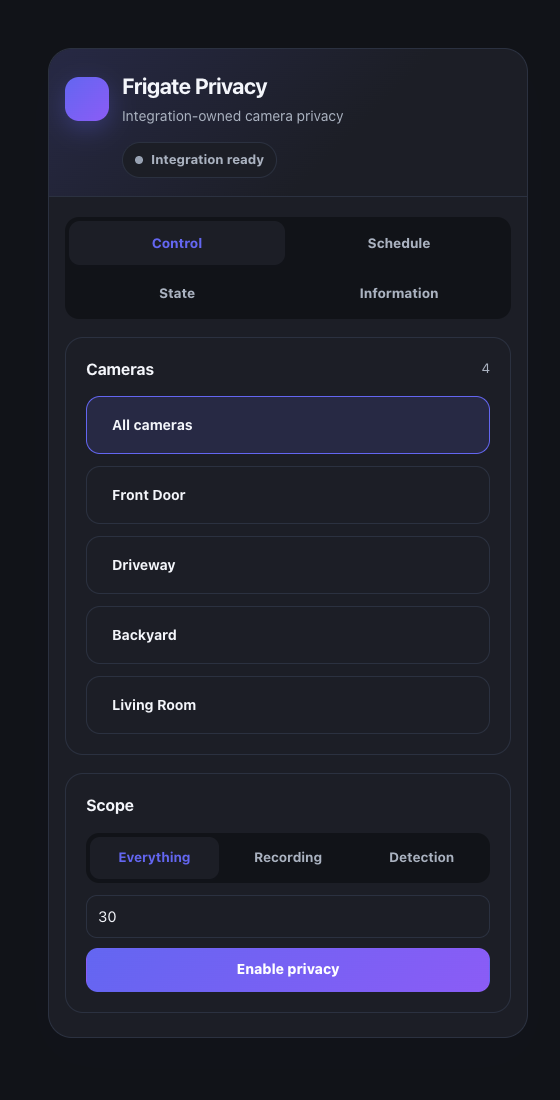
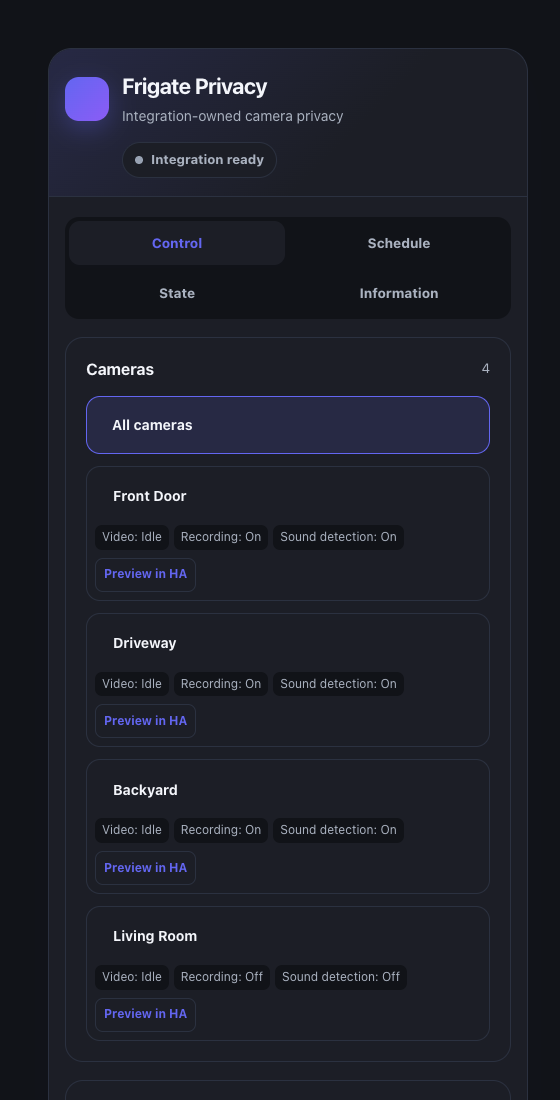
Fix unsupported Frigate camera toggle and show channel status

diff --git a/custom_components/ha_frigate_privacy/www/ha-frigate-privacy-card.js b/custom_components/ha_frigate_privacy/www/ha-frigate-privacy-card.js
@@ -1,4 +1,4 @@
-/* Frigate Privacy — integration-owned Home Assistant card */
+/* Frigate Privacy v6.0.3 — integration-owned Home Assistant card */
 (function () {
   'use strict';
 
@@ -54,6 +54,9 @@
     .camera-card { display: flex; align-items: center; gap: 11px; min-height: 58px; padding: 14px; border: 1px solid var(--fp-border); border-radius: 14px; background: var(--fp-card); cursor: pointer; transition: border-color .18s, background .18s, transform .18s; }
     .camera-card:hover { transform: translateY(-1px); border-color: color-mix(in srgb, var(--fp-primary) 45%, var(--fp-border)); } .camera-card.selected { border-color: var(--fp-primary); background: var(--fp-soft); }
     .camera-card ha-icon { flex: 0 0 auto; color: var(--fp-primary); --mdc-icon-size: 22px; } .camera-name { min-width: 0; overflow-wrap: break-word; font-size: 14px; line-height: 1.4; font-weight: 700; } .camera-check { margin-left: auto; color: var(--fp-primary); }
+    .camera-tile { min-width: 0; padding: 8px; border: 1px solid var(--fp-border); border-radius: 14px; } .camera-tile .camera-card { border: 0; padding: 7px; min-height: 42px; }
+    .channel-status { display: flex; flex-wrap: wrap; gap: 5px; margin: 8px 0; } .channel-status span { padding: 3px 7px; border-radius: 7px; background: var(--fp-bg); color: var(--fp-muted); font-size: 12px; }
+    .preview-btn { min-height: 34px; padding: 5px 8px; border: 1px solid var(--fp-border); border-radius: 8px; background: var(--fp-card); color: var(--fp-primary); cursor: pointer; font-size: 12px; font-weight: 700; }
     .seg { display: flex; gap: 5px; padding: 4px; border-radius: 13px; background: var(--fp-bg); }
     .seg-item { flex: 1; min-height: 42px; padding: 8px 10px; border: 0; border-radius: 10px; background: transparent; color: var(--fp-muted); cursor: pointer; font-size: 13.5px; line-height: 1.35; font-weight: 700; }
     .seg-item.selected { background: var(--fp-card); color: var(--fp-primary); box-shadow: 0 2px 8px rgba(16,24,40,.08); }
@@ -98,8 +101,8 @@
 
     get _t() {
       const strings = {
-        pl: { subtitle:'Prywatność kamer sterowana przez integrację',online:'Integracja gotowa',connecting:'Łączenie',recovering:'Bezpieczne odzyskiwanie stanu',recoveringHint:'Integracja czeka na encje Frigate i zachowuje zapisane cele. Sterowanie pozostaje zablokowane do zakończenia uzgadniania.',adminRequired:'Wymagane uprawnienia administratora',adminHint:'Stan kamer i harmonogramy mogą ujawniać rytm domu. Ta karta jest dostępna wyłącznie dla administratorów Home Assistant.',unavailable:'Integracja Frigate Privacy jest niedostępna',unavailableHint:'Dodaj lub napraw integrację, a następnie odśwież kartę. Żadne sterowanie awaryjne w przeglądarce nie zostanie uruchomione.',retry:'Spróbuj ponownie',retryResume:'Ponów bezpieczne wznowienie',introTitle:'Bezpieczny tryb prywatności',intro1:'Wybierz kamery, zakres i czas.',intro2:'Integracja zapisze stan przed zmianą.',intro3:'Częściowe lub niepewne wykonanie pozostanie widoczne.',control:'Sterowanie',schedule:'Harmonogram',state:'Stan',info:'Informacje',cameras:'Kamery',all:'Wszystkie kamery',scope:'Zakres',allScope:'Wszystko',main:'Nagrywanie',sub:'Detekcja',duration:'Czas w minutach',pause:'Włącz prywatność',resume:'Wznów bezpiecznie',noCameras:'Nie znaleziono kamer Frigate.',schedules:'Okna prywatności',noSchedules:'Brak harmonogramów.',add:'Dodaj harmonogram',edit:'Edytuj',save:'Zapisz',cancel:'Anuluj',remove:'Usuń',label:'Etykieta',start:'Początek',end:'Koniec',enabled:'Aktywny',days:['Pn','Wt','Śr','Cz','Pt','So','Nd'],currentState:'Stan potwierdzony przez backend',noActive:'Brak aktywnych przejść prywatności.',lastVerified:'Ostatnia zweryfikowana operacja',noHistory:'Brak zakończonych operacji.',source:'Źródło',deadline:'Termin',reason:'Powód',operation:'Operacja',observed:'Zweryfikowano',attempts:'Próby wznowienia',evidence:'Dowody per cel',architecture:'Model bezpieczeństwa',architectureText:'Karta nie steruje kamerami, przełącznikami ani konfiguracją HA bezpośrednio. Wszystkie odczyty i zmiany przechodzą przez administracyjne komendy WebSocket integracji. Harmonogram i odzyskiwanie po restarcie są własnością backendu.',support:'Podoba Ci się Frigate Privacy?',supportText:'Możesz wesprzeć dalszy rozwój i testy.',saved:'Zapisano',failed:'Operacja nie powiodła się',close:'Zamknij' },
-        en: { subtitle:'Integration-owned camera privacy',online:'Integration ready',connecting:'Connecting',recovering:'Safely recovering state',recoveringHint:'The integration is waiting for Frigate entities while preserving exact saved targets. Controls remain locked until reconciliation finishes.',adminRequired:'Administrator permission required',adminHint:'Camera topology and schedules can reveal household routines. This card is available only to Home Assistant administrators.',unavailable:'Frigate Privacy integration is unavailable',unavailableHint:'Add or repair the integration, then refresh the card. No browser-side emergency control will run.',retry:'Retry',retryResume:'Retry safe resume',introTitle:'Safe privacy control',intro1:'Choose cameras, scope, and duration.',intro2:'The integration persists state before control.',intro3:'Partial or uncertain results remain visible.',control:'Control',schedule:'Schedule',state:'State',info:'Information',cameras:'Cameras',all:'All cameras',scope:'Scope',allScope:'Everything',main:'Recording',sub:'Detection',duration:'Duration in minutes',pause:'Enable privacy',resume:'Resume safely',noCameras:'No Frigate cameras were found.',schedules:'Privacy windows',noSchedules:'No schedules.',add:'Add schedule',edit:'Edit',save:'Save',cancel:'Cancel',remove:'Delete',label:'Label',start:'Start',end:'End',enabled:'Enabled',days:['Mon','Tue','Wed','Thu','Fri','Sat','Sun'],currentState:'Backend-confirmed state',noActive:'No active privacy transitions.',lastVerified:'Last verified operation',noHistory:'No completed operations.',source:'Source',deadline:'Deadline',reason:'Reason',operation:'Operation',observed:'Verified',attempts:'Resume attempts',evidence:'Per-target evidence',architecture:'Security model',architectureText:'The card never controls cameras, switches, or HA configuration directly. Every read and mutation goes through admin-only integration WebSocket commands. The backend owns schedules and restart recovery.',support:'Enjoying Frigate Privacy?',supportText:'You can support continued development and testing.',saved:'Saved',failed:'The operation failed',close:'Close' },
+        pl: { subtitle:'Prywatność kamer sterowana przez integrację',online:'Integracja gotowa',connecting:'Łączenie',recovering:'Bezpieczne odzyskiwanie stanu',recoveringHint:'Integracja czeka na encje Frigate i zachowuje zapisane cele. Sterowanie pozostaje zablokowane do zakończenia uzgadniania.',adminRequired:'Wymagane uprawnienia administratora',adminHint:'Stan kamer i harmonogramy mogą ujawniać rytm domu. Ta karta jest dostępna wyłącznie dla administratorów Home Assistant.',unavailable:'Integracja Frigate Privacy jest niedostępna',unavailableHint:'Dodaj lub napraw integrację, a następnie odśwież kartę. Żadne sterowanie awaryjne w przeglądarce nie zostanie uruchomione.',retry:'Spróbuj ponownie',retryResume:'Ponów bezpieczne wznowienie',introTitle:'Bezpieczny tryb prywatności',intro1:'Wybierz kamery, zakres i czas.',intro2:'Integracja zapisze stan przed zmianą.',intro3:'Częściowe lub niepewne wykonanie pozostanie widoczne.',control:'Sterowanie',schedule:'Harmonogram',state:'Stan',info:'Informacje',cameras:'Kamery',all:'Wszystkie kamery',scope:'Zakres',allScope:'Wszystko',main:'Nagrywanie',sub:'Detekcja',duration:'Czas w minutach',pause:'Włącz prywatność',resume:'Wznów bezpiecznie',noCameras:'Nie znaleziono kamer Frigate.',schedules:'Okna prywatności',noSchedules:'Brak harmonogramów.',add:'Dodaj harmonogram',edit:'Edytuj',save:'Zapisz',cancel:'Anuluj',remove:'Usuń',label:'Etykieta',start:'Początek',end:'Koniec',enabled:'Aktywny',days:['Pn','Wt','Śr','Cz','Pt','So','Nd'],currentState:'Stan potwierdzony przez backend',noActive:'Brak aktywnych przejść prywatności.',lastVerified:'Ostatnia zweryfikowana operacja',noHistory:'Brak zakończonych operacji.',source:'Źródło',deadline:'Termin',reason:'Powód',operation:'Operacja',observed:'Zweryfikowano',attempts:'Próby wznowienia',evidence:'Dowody per cel',architecture:'Model bezpieczeństwa',architectureText:'Karta nie steruje kamerami, przełącznikami ani konfiguracją HA bezpośrednio. Wszystkie odczyty i zmiany przechodzą przez administracyjne komendy WebSocket integracji. Harmonogram i odzyskiwanie po restarcie są własnością backendu.',support:'Podoba Ci się Frigate Privacy?',supportText:'Możesz wesprzeć dalszy rozwój i testy.',saved:'Zapisano',failed:'Operacja nie powiodła się',close:'Zamknij',video:'Obraz',recording:'Nagrywanie',soundDetection:'Detekcja dźwięku',preview:'Podgląd w HA',statusOn:'Wł.',statusOff:'Wył.',statusIdle:'Gotowa',statusUnavailable:'Niedostępna',statusUnknown:'Nieznany' },
+        en: { subtitle:'Integration-owned camera privacy',online:'Integration ready',connecting:'Connecting',recovering:'Safely recovering state',recoveringHint:'The integration is waiting for Frigate entities while preserving exact saved targets. Controls remain locked until reconciliation finishes.',adminRequired:'Administrator permission required',adminHint:'Camera topology and schedules can reveal household routines. This card is available only to Home Assistant administrators.',unavailable:'Frigate Privacy integration is unavailable',unavailableHint:'Add or repair the integration, then refresh the card. No browser-side emergency control will run.',retry:'Retry',retryResume:'Retry safe resume',introTitle:'Safe privacy control',intro1:'Choose cameras, scope, and duration.',intro2:'The integration persists state before control.',intro3:'Partial or uncertain results remain visible.',control:'Control',schedule:'Schedule',state:'State',info:'Information',cameras:'Cameras',all:'All cameras',scope:'Scope',allScope:'Everything',main:'Recording',sub:'Detection',duration:'Duration in minutes',pause:'Enable privacy',resume:'Resume safely',noCameras:'No Frigate cameras were found.',schedules:'Privacy windows',noSchedules:'No schedules.',add:'Add schedule',edit:'Edit',save:'Save',cancel:'Cancel',remove:'Delete',label:'Label',start:'Start',end:'End',enabled:'Enabled',days:['Mon','Tue','Wed','Thu','Fri','Sat','Sun'],currentState:'Backend-confirmed state',noActive:'No active privacy transitions.',lastVerified:'Last verified operation',noHistory:'No completed operations.',source:'Source',deadline:'Deadline',reason:'Reason',operation:'Operation',observed:'Verified',attempts:'Resume attempts',evidence:'Per-target evidence',architecture:'Security model',architectureText:'The card never controls cameras, switches, or HA configuration directly. Every read and mutation goes through admin-only integration WebSocket commands. The backend owns schedules and restart recovery.',support:'Enjoying Frigate Privacy?',supportText:'You can support continued development and testing.',saved:'Saved',failed:'The operation failed',close:'Close',video:'Video',recording:'Recording',soundDetection:'Sound detection',preview:'Preview in HA',statusOn:'On',statusOff:'Off',statusIdle:'Idle',statusUnavailable:'Unavailable',statusUnknown:'Unknown' },
       }; return strings[this._lang] || strings.en;
     }
 
@@ -162,7 +165,9 @@
     _dismissSupport() { haToolsPersistence.save("ha-frigate-privacy-support-dismissed", "1"); this._lastHtml = ""; this._updateUI(); }
     _buildGate() { const t=this._t; if(!this._integrationChecked)return `<div class="notice"><ha-icon icon="mdi:progress-clock"></ha-icon><div><h3>${_esc(t.connecting)}</h3><p>${_esc(t.subtitle)}</p></div></div>`; if(this._permissionDenied)return `<div class="notice error"><ha-icon icon="mdi:account-lock-outline"></ha-icon><div><h3>${_esc(t.adminRequired)}</h3><p>${_esc(t.adminHint)}</p></div></div>`; if(!this._integrationAvailable)return `<div class="notice error"><ha-icon icon="mdi:lan-disconnect"></ha-icon><div><h3>${_esc(t.unavailable)}</h3><p>${_esc(t.unavailableHint)}</p><button class="btn btn-secondary" data-action="retry" style="margin-top:12px">${_esc(t.retry)}</button></div></div>`; if(!this._recoveryReady)return `<div class="notice"><ha-icon icon="mdi:shield-sync-outline"></ha-icon><div><h3>${_esc(t.recovering)}</h3><p>${_esc(t.recoveringHint)}</p></div></div>`; return ''; }
     _buildControlTab() {
-      const t=this._t; const cameras=this._cameras.map((cam)=>{const selected=this._selectedCameras.has(cam.camera_id);return `<div class="camera-card ${selected?'selected':''}" data-camera="${_esc(cam.camera_id)}" role="button" tabindex="0" aria-pressed="${selected}" aria-label="Camera: ${_esc(this._repairMojibake(cam.name))}"><ha-icon icon="mdi:cctv"></ha-icon><span class="camera-name">${_esc(this._repairMojibake(cam.name))}</span>${selected?'<ha-icon class="camera-check" icon="mdi:check-circle"></ha-icon>':''}</div>`;}).join('');
+      const t=this._t; const status=(value)=>({on:t.statusOn,off:t.statusOff,idle:t.statusIdle,streaming:t.statusOn,recording:t.statusOn,unavailable:t.statusUnavailable,unknown:t.statusUnknown}[value]||t.statusUnknown);
+      const switchStatus=(cam,suffixes)=>{const item=(cam.switches||[]).find((entry)=>suffixes.includes(entry.suffix));return status(item?.state);};
+      const cameras=this._cameras.map((cam)=>{const selected=this._selectedCameras.has(cam.camera_id);const video=status(cam.camera_state);const recording=switchStatus(cam,['_recordings']);const sound=switchStatus(cam,['_audio_detection','_audio']);return `<div class="camera-tile"><div class="camera-card ${selected?'selected':''}" data-camera="${_esc(cam.camera_id)}" role="button" tabindex="0" aria-pressed="${selected}" aria-label="Camera: ${_esc(this._repairMojibake(cam.name))}"><ha-icon icon="mdi:cctv"></ha-icon><span class="camera-name">${_esc(this._repairMojibake(cam.name))}</span>${selected?'<ha-icon class="camera-check" icon="mdi:check-circle"></ha-icon>':''}</div><div class="channel-status"><span>${_esc(t.video)}: ${_esc(video)}</span><span>${_esc(t.recording)}: ${_esc(recording)}</span><span>${_esc(t.soundDetection)}: ${_esc(sound)}</span></div>${cam.entity_id?`<button class="preview-btn" data-preview-camera="${_esc(cam.entity_id)}">${_esc(t.preview)}</button>`:''}</div>`;}).join('');
       const allSelected=this._selectedCameras.size===0; const phases=Object.values(this._paused||{});
       return `<div class="section"><div class="section-head"><h3>${_esc(t.cameras)}</h3><span class="helper">${this._cameras.length}</span></div><div class="camera-grid"><div class="camera-card ${allSelected?'selected':''}" data-camera="__all__" role="button" tabindex="0" aria-pressed="${allSelected}"><ha-icon icon="mdi:camera-multiple-outline"></ha-icon><span class="camera-name">${_esc(t.all)}</span>${allSelected?'<ha-icon class="camera-check" icon="mdi:check-circle"></ha-icon>':''}</div>${cameras||`<div class="empty">${_esc(t.noCameras)}</div>`}</div></div>
       <div class="section"><div class="section-head"><h3>${_esc(t.scope)}</h3></div><div class="seg" role="radiogroup">${[['all',t.allScope],['main',t.main],['sub',t.sub]].map(([value,label])=>`<button class="seg-item ${this._pauseStreamType===value?'selected':''}" data-scope="${value}" role="radio" aria-checked="${this._pauseStreamType===value}">${_esc(label)}</button>`).join('')}</div><div class="duration-row"><input class="input-minutes" type="number" min="1" max="1440" value="${_esc(this._customMinutes)}" aria-label="${_esc(t.duration)}"><button class="btn btn-primary" data-action="pause-custom" ${this._busy||!this._cameras.length?'disabled':''}>${_esc(t.pause)}</button></div>${phases.length?`<button class="btn btn-danger btn-full" data-action="resume" ${this._busy?'disabled':''}>${_esc(t.resume)}</button>`:''}</div>`;
@@ -179,6 +184,7 @@
       const root=this.shadowRoot;root.querySelector('[data-action="dismiss-intro"]')?.addEventListener('click',()=>this._dismissIntro());root.querySelector('[data-action="dismiss-support"]')?.addEventListener('click',()=>this._dismissSupport());root.querySelector('[data-action="retry"]')?.addEventListener('click',()=>this._connectIntegration());
       root.querySelectorAll('[data-tab]').forEach((button)=>button.addEventListener('click',()=>{this._activeTab=button.dataset.tab;this._updateUI();}));
       root.querySelectorAll('[data-camera]').forEach((card)=>{const toggle=()=>{const id=card.dataset.camera;if(id==='__all__')this._selectedCameras.clear();else if(this._selectedCameras.has(id))this._selectedCameras.delete(id);else this._selectedCameras.add(id);this._updateUI();};card.addEventListener('click',toggle);card.addEventListener('keydown',(event)=>{if(event.key==='Enter'||event.key===' '){event.preventDefault();toggle();}});});
+      root.querySelectorAll('[data-preview-camera]').forEach((button)=>button.addEventListener('click',()=>this.dispatchEvent(new CustomEvent('hass-more-info',{detail:{entityId:button.dataset.previewCamera},bubbles:true,composed:true}))));
       root.querySelectorAll('[data-scope]').forEach((button)=>button.addEventListener('click',()=>{this._pauseStreamType=button.dataset.scope;haToolsPersistence.save('ha-frigate-privacy-pause-stream-type',this._pauseStreamType);this._updateUI();}));
       root.querySelector('.input-minutes')?.addEventListener('change',(event)=>{this._customMinutes=Math.max(1,Math.min(1440,Number.parseInt(event.target.value,10)||30));this._updateUI();});
       root.querySelector('[data-action="pause-custom"]')?.addEventListener('click',()=>this._pause());root.querySelector('[data-action="resume"]')?.addEventListener('click',()=>this._resume());

diff --git a/ha-frigate-privacy.js b/ha-frigate-privacy.js
@@ -1,4 +1,4 @@
-/* Frigate Privacy — integration-owned Home Assistant card */
+/* Frigate Privacy v6.0.3 — integration-owned Home Assistant card */
 (function () {
   'use strict';
 
@@ -54,6 +54,9 @@
     .camera-card { display: flex; align-items: center; gap: 11px; min-height: 58px; padding: 14px; border: 1px solid var(--fp-border); border-radius: 14px; background: var(--fp-card); cursor: pointer; transition: border-color .18s, background .18s, transform .18s; }
     .camera-card:hover { transform: translateY(-1px); border-color: color-mix(in srgb, var(--fp-primary) 45%, var(--fp-border)); } .camera-card.selected { border-color: var(--fp-primary); background: var(--fp-soft); }
     .camera-card ha-icon { flex: 0 0 auto; color: var(--fp-primary); --mdc-icon-size: 22px; } .camera-name { min-width: 0; overflow-wrap: break-word; font-size: 14px; line-height: 1.4; font-weight: 700; } .camera-check { margin-left: auto; color: var(--fp-primary); }
+    .camera-tile { min-width: 0; padding: 8px; border: 1px solid var(--fp-border); border-radius: 14px; } .camera-tile .camera-card { border: 0; padding: 7px; min-height: 42px; }
+    .channel-status { display: flex; flex-wrap: wrap; gap: 5px; margin: 8px 0; } .channel-status span { padding: 3px 7px; border-radius: 7px; background: var(--fp-bg); color: var(--fp-muted); font-size: 12px; }
+    .preview-btn { min-height: 34px; padding: 5px 8px; border: 1px solid var(--fp-border); border-radius: 8px; background: var(--fp-card); color: var(--fp-primary); cursor: pointer; font-size: 12px; font-weight: 700; }
     .seg { display: flex; gap: 5px; padding: 4px; border-radius: 13px; background: var(--fp-bg); }
     .seg-item { flex: 1; min-height: 42px; padding: 8px 10px; border: 0; border-radius: 10px; background: transparent; color: var(--fp-muted); cursor: pointer; font-size: 13.5px; line-height: 1.35; font-weight: 700; }
     .seg-item.selected { background: var(--fp-card); color: var(--fp-primary); box-shadow: 0 2px 8px rgba(16,24,40,.08); }
@@ -98,8 +101,8 @@
 
     get _t() {
       const strings = {
-        pl: { subtitle:'Prywatność kamer sterowana przez integrację',online:'Integracja gotowa',connecting:'Łączenie',recovering:'Bezpieczne odzyskiwanie stanu',recoveringHint:'Integracja czeka na encje Frigate i zachowuje zapisane cele. Sterowanie pozostaje zablokowane do zakończenia uzgadniania.',adminRequired:'Wymagane uprawnienia administratora',adminHint:'Stan kamer i harmonogramy mogą ujawniać rytm domu. Ta karta jest dostępna wyłącznie dla administratorów Home Assistant.',unavailable:'Integracja Frigate Privacy jest niedostępna',unavailableHint:'Dodaj lub napraw integrację, a następnie odśwież kartę. Żadne sterowanie awaryjne w przeglądarce nie zostanie uruchomione.',retry:'Spróbuj ponownie',retryResume:'Ponów bezpieczne wznowienie',introTitle:'Bezpieczny tryb prywatności',intro1:'Wybierz kamery, zakres i czas.',intro2:'Integracja zapisze stan przed zmianą.',intro3:'Częściowe lub niepewne wykonanie pozostanie widoczne.',control:'Sterowanie',schedule:'Harmonogram',state:'Stan',info:'Informacje',cameras:'Kamery',all:'Wszystkie kamery',scope:'Zakres',allScope:'Wszystko',main:'Nagrywanie',sub:'Detekcja',duration:'Czas w minutach',pause:'Włącz prywatność',resume:'Wznów bezpiecznie',noCameras:'Nie znaleziono kamer Frigate.',schedules:'Okna prywatności',noSchedules:'Brak harmonogramów.',add:'Dodaj harmonogram',edit:'Edytuj',save:'Zapisz',cancel:'Anuluj',remove:'Usuń',label:'Etykieta',start:'Początek',end:'Koniec',enabled:'Aktywny',days:['Pn','Wt','Śr','Cz','Pt','So','Nd'],currentState:'Stan potwierdzony przez backend',noActive:'Brak aktywnych przejść prywatności.',lastVerified:'Ostatnia zweryfikowana operacja',noHistory:'Brak zakończonych operacji.',source:'Źródło',deadline:'Termin',reason:'Powód',operation:'Operacja',observed:'Zweryfikowano',attempts:'Próby wznowienia',evidence:'Dowody per cel',architecture:'Model bezpieczeństwa',architectureText:'Karta nie steruje kamerami, przełącznikami ani konfiguracją HA bezpośrednio. Wszystkie odczyty i zmiany przechodzą przez administracyjne komendy WebSocket integracji. Harmonogram i odzyskiwanie po restarcie są własnością backendu.',support:'Podoba Ci się Frigate Privacy?',supportText:'Możesz wesprzeć dalszy rozwój i testy.',saved:'Zapisano',failed:'Operacja nie powiodła się',close:'Zamknij' },
-        en: { subtitle:'Integration-owned camera privacy',online:'Integration ready',connecting:'Connecting',recovering:'Safely recovering state',recoveringHint:'The integration is waiting for Frigate entities while preserving exact saved targets. Controls remain locked until reconciliation finishes.',adminRequired:'Administrator permission required',adminHint:'Camera topology and schedules can reveal household routines. This card is available only to Home Assistant administrators.',unavailable:'Frigate Privacy integration is unavailable',unavailableHint:'Add or repair the integration, then refresh the card. No browser-side emergency control will run.',retry:'Retry',retryResume:'Retry safe resume',introTitle:'Safe privacy control',intro1:'Choose cameras, scope, and duration.',intro2:'The integration persists state before control.',intro3:'Partial or uncertain results remain visible.',control:'Control',schedule:'Schedule',state:'State',info:'Information',cameras:'Cameras',all:'All cameras',scope:'Scope',allScope:'Everything',main:'Recording',sub:'Detection',duration:'Duration in minutes',pause:'Enable privacy',resume:'Resume safely',noCameras:'No Frigate cameras were found.',schedules:'Privacy windows',noSchedules:'No schedules.',add:'Add schedule',edit:'Edit',save:'Save',cancel:'Cancel',remove:'Delete',label:'Label',start:'Start',end:'End',enabled:'Enabled',days:['Mon','Tue','Wed','Thu','Fri','Sat','Sun'],currentState:'Backend-confirmed state',noActive:'No active privacy transitions.',lastVerified:'Last verified operation',noHistory:'No completed operations.',source:'Source',deadline:'Deadline',reason:'Reason',operation:'Operation',observed:'Verified',attempts:'Resume attempts',evidence:'Per-target evidence',architecture:'Security model',architectureText:'The card never controls cameras, switches, or HA configuration directly. Every read and mutation goes through admin-only integration WebSocket commands. The backend owns schedules and restart recovery.',support:'Enjoying Frigate Privacy?',supportText:'You can support continued development and testing.',saved:'Saved',failed:'The operation failed',close:'Close' },
+        pl: { subtitle:'Prywatność kamer sterowana przez integrację',online:'Integracja gotowa',connecting:'Łączenie',recovering:'Bezpieczne odzyskiwanie stanu',recoveringHint:'Integracja czeka na encje Frigate i zachowuje zapisane cele. Sterowanie pozostaje zablokowane do zakończenia uzgadniania.',adminRequired:'Wymagane uprawnienia administratora',adminHint:'Stan kamer i harmonogramy mogą ujawniać rytm domu. Ta karta jest dostępna wyłącznie dla administratorów Home Assistant.',unavailable:'Integracja Frigate Privacy jest niedostępna',unavailableHint:'Dodaj lub napraw integrację, a następnie odśwież kartę. Żadne sterowanie awaryjne w przeglądarce nie zostanie uruchomione.',retry:'Spróbuj ponownie',retryResume:'Ponów bezpieczne wznowienie',introTitle:'Bezpieczny tryb prywatności',intro1:'Wybierz kamery, zakres i czas.',intro2:'Integracja zapisze stan przed zmianą.',intro3:'Częściowe lub niepewne wykonanie pozostanie widoczne.',control:'Sterowanie',schedule:'Harmonogram',state:'Stan',info:'Informacje',cameras:'Kamery',all:'Wszystkie kamery',scope:'Zakres',allScope:'Wszystko',main:'Nagrywanie',sub:'Detekcja',duration:'Czas w minutach',pause:'Włącz prywatność',resume:'Wznów bezpiecznie',noCameras:'Nie znaleziono kamer Frigate.',schedules:'Okna prywatności',noSchedules:'Brak harmonogramów.',add:'Dodaj harmonogram',edit:'Edytuj',save:'Zapisz',cancel:'Anuluj',remove:'Usuń',label:'Etykieta',start:'Początek',end:'Koniec',enabled:'Aktywny',days:['Pn','Wt','Śr','Cz','Pt','So','Nd'],currentState:'Stan potwierdzony przez backend',noActive:'Brak aktywnych przejść prywatności.',lastVerified:'Ostatnia zweryfikowana operacja',noHistory:'Brak zakończonych operacji.',source:'Źródło',deadline:'Termin',reason:'Powód',operation:'Operacja',observed:'Zweryfikowano',attempts:'Próby wznowienia',evidence:'Dowody per cel',architecture:'Model bezpieczeństwa',architectureText:'Karta nie steruje kamerami, przełącznikami ani konfiguracją HA bezpośrednio. Wszystkie odczyty i zmiany przechodzą przez administracyjne komendy WebSocket integracji. Harmonogram i odzyskiwanie po restarcie są własnością backendu.',support:'Podoba Ci się Frigate Privacy?',supportText:'Możesz wesprzeć dalszy rozwój i testy.',saved:'Zapisano',failed:'Operacja nie powiodła się',close:'Zamknij',video:'Obraz',recording:'Nagrywanie',soundDetection:'Detekcja dźwięku',preview:'Podgląd w HA',statusOn:'Wł.',statusOff:'Wył.',statusIdle:'Gotowa',statusUnavailable:'Niedostępna',statusUnknown:'Nieznany' },
+        en: { subtitle:'Integration-owned camera privacy',online:'Integration ready',connecting:'Connecting',recovering:'Safely recovering state',recoveringHint:'The integration is waiting for Frigate entities while preserving exact saved targets. Controls remain locked until reconciliation finishes.',adminRequired:'Administrator permission required',adminHint:'Camera topology and schedules can reveal household routines. This card is available only to Home Assistant administrators.',unavailable:'Frigate Privacy integration is unavailable',unavailableHint:'Add or repair the integration, then refresh the card. No browser-side emergency control will run.',retry:'Retry',retryResume:'Retry safe resume',introTitle:'Safe privacy control',intro1:'Choose cameras, scope, and duration.',intro2:'The integration persists state before control.',intro3:'Partial or uncertain results remain visible.',control:'Control',schedule:'Schedule',state:'State',info:'Information',cameras:'Cameras',all:'All cameras',scope:'Scope',allScope:'Everything',main:'Recording',sub:'Detection',duration:'Duration in minutes',pause:'Enable privacy',resume:'Resume safely',noCameras:'No Frigate cameras were found.',schedules:'Privacy windows',noSchedules:'No schedules.',add:'Add schedule',edit:'Edit',save:'Save',cancel:'Cancel',remove:'Delete',label:'Label',start:'Start',end:'End',enabled:'Enabled',days:['Mon','Tue','Wed','Thu','Fri','Sat','Sun'],currentState:'Backend-confirmed state',noActive:'No active privacy transitions.',lastVerified:'Last verified operation',noHistory:'No completed operations.',source:'Source',deadline:'Deadline',reason:'Reason',operation:'Operation',observed:'Verified',attempts:'Resume attempts',evidence:'Per-target evidence',architecture:'Security model',architectureText:'The card never controls cameras, switches, or HA configuration directly. Every read and mutation goes through admin-only integration WebSocket commands. The backend owns schedules and restart recovery.',support:'Enjoying Frigate Privacy?',supportText:'You can support continued development and testing.',saved:'Saved',failed:'The operation failed',close:'Close',video:'Video',recording:'Recording',soundDetection:'Sound detection',preview:'Preview in HA',statusOn:'On',statusOff:'Off',statusIdle:'Idle',statusUnavailable:'Unavailable',statusUnknown:'Unknown' },
       }; return strings[this._lang] || strings.en;
     }
 
@@ -162,7 +165,9 @@
     _dismissSupport() { haToolsPersistence.save("ha-frigate-privacy-support-dismissed", "1"); this._lastHtml = ""; this._updateUI(); }
     _buildGate() { const t=this._t; if(!this._integrationChecked)return `<div class="notice"><ha-icon icon="mdi:progress-clock"></ha-icon><div><h3>${_esc(t.connecting)}</h3><p>${_esc(t.subtitle)}</p></div></div>`; if(this._permissionDenied)return `<div class="notice error"><ha-icon icon="mdi:account-lock-outline"></ha-icon><div><h3>${_esc(t.adminRequired)}</h3><p>${_esc(t.adminHint)}</p></div></div>`; if(!this._integrationAvailable)return `<div class="notice error"><ha-icon icon="mdi:lan-disconnect"></ha-icon><div><h3>${_esc(t.unavailable)}</h3><p>${_esc(t.unavailableHint)}</p><button class="btn btn-secondary" data-action="retry" style="margin-top:12px">${_esc(t.retry)}</button></div></div>`; if(!this._recoveryReady)return `<div class="notice"><ha-icon icon="mdi:shield-sync-outline"></ha-icon><div><h3>${_esc(t.recovering)}</h3><p>${_esc(t.recoveringHint)}</p></div></div>`; return ''; }
     _buildControlTab() {
-      const t=this._t; const cameras=this._cameras.map((cam)=>{const selected=this._selectedCameras.has(cam.camera_id);return `<div class="camera-card ${selected?'selected':''}" data-camera="${_esc(cam.camera_id)}" role="button" tabindex="0" aria-pressed="${selected}" aria-label="Camera: ${_esc(this._repairMojibake(cam.name))}"><ha-icon icon="mdi:cctv"></ha-icon><span class="camera-name">${_esc(this._repairMojibake(cam.name))}</span>${selected?'<ha-icon class="camera-check" icon="mdi:check-circle"></ha-icon>':''}</div>`;}).join('');
+      const t=this._t; const status=(value)=>({on:t.statusOn,off:t.statusOff,idle:t.statusIdle,streaming:t.statusOn,recording:t.statusOn,unavailable:t.statusUnavailable,unknown:t.statusUnknown}[value]||t.statusUnknown);
+      const switchStatus=(cam,suffixes)=>{const item=(cam.switches||[]).find((entry)=>suffixes.includes(entry.suffix));return status(item?.state);};
+      const cameras=this._cameras.map((cam)=>{const selected=this._selectedCameras.has(cam.camera_id);const video=status(cam.camera_state);const recording=switchStatus(cam,['_recordings']);const sound=switchStatus(cam,['_audio_detection','_audio']);return `<div class="camera-tile"><div class="camera-card ${selected?'selected':''}" data-camera="${_esc(cam.camera_id)}" role="button" tabindex="0" aria-pressed="${selected}" aria-label="Camera: ${_esc(this._repairMojibake(cam.name))}"><ha-icon icon="mdi:cctv"></ha-icon><span class="camera-name">${_esc(this._repairMojibake(cam.name))}</span>${selected?'<ha-icon class="camera-check" icon="mdi:check-circle"></ha-icon>':''}</div><div class="channel-status"><span>${_esc(t.video)}: ${_esc(video)}</span><span>${_esc(t.recording)}: ${_esc(recording)}</span><span>${_esc(t.soundDetection)}: ${_esc(sound)}</span></div>${cam.entity_id?`<button class="preview-btn" data-preview-camera="${_esc(cam.entity_id)}">${_esc(t.preview)}</button>`:''}</div>`;}).join('');
       const allSelected=this._selectedCameras.size===0; const phases=Object.values(this._paused||{});
       return `<div class="section"><div class="section-head"><h3>${_esc(t.cameras)}</h3><span class="helper">${this._cameras.length}</span></div><div class="camera-grid"><div class="camera-card ${allSelected?'selected':''}" data-camera="__all__" role="button" tabindex="0" aria-pressed="${allSelected}"><ha-icon icon="mdi:camera-multiple-outline"></ha-icon><span class="camera-name">${_esc(t.all)}</span>${allSelected?'<ha-icon class="camera-check" icon="mdi:check-circle"></ha-icon>':''}</div>${cameras||`<div class="empty">${_esc(t.noCameras)}</div>`}</div></div>
       <div class="section"><div class="section-head"><h3>${_esc(t.scope)}</h3></div><div class="seg" role="radiogroup">${[['all',t.allScope],['main',t.main],['sub',t.sub]].map(([value,label])=>`<button class="seg-item ${this._pauseStreamType===value?'selected':''}" data-scope="${value}" role="radio" aria-checked="${this._pauseStreamType===value}">${_esc(label)}</button>`).join('')}</div><div class="duration-row"><input class="input-minutes" type="number" min="1" max="1440" value="${_esc(this._customMinutes)}" aria-label="${_esc(t.duration)}"><button class="btn btn-primary" data-action="pause-custom" ${this._busy||!this._cameras.length?'disabled':''}>${_esc(t.pause)}</button></div>${phases.length?`<button class="btn btn-danger btn-full" data-action="resume" ${this._busy?'disabled':''}>${_esc(t.resume)}</button>`:''}</div>`;
@@ -179,6 +184,7 @@
       const root=this.shadowRoot;root.querySelector('[data-action="dismiss-intro"]')?.addEventListener('click',()=>this._dismissIntro());root.querySelector('[data-action="dismiss-support"]')?.addEventListener('click',()=>this._dismissSupport());root.querySelector('[data-action="retry"]')?.addEventListener('click',()=>this._connectIntegration());
       root.querySelectorAll('[data-tab]').forEach((button)=>button.addEventListener('click',()=>{this._activeTab=button.dataset.tab;this._updateUI();}));
       root.querySelectorAll('[data-camera]').forEach((card)=>{const toggle=()=>{const id=card.dataset.camera;if(id==='__all__')this._selectedCameras.clear();else if(this._selectedCameras.has(id))this._selectedCameras.delete(id);else this._selectedCameras.add(id);this._updateUI();};card.addEventListener('click',toggle);card.addEventListener('keydown',(event)=>{if(event.key==='Enter'||event.key===' '){event.preventDefault();toggle();}});});
+      root.querySelectorAll('[data-preview-camera]').forEach((button)=>button.addEventListener('click',()=>this.dispatchEvent(new CustomEvent('hass-more-info',{detail:{entityId:button.dataset.previewCamera},bubbles:true,composed:true}))));
       root.querySelectorAll('[data-scope]').forEach((button)=>button.addEventListener('click',()=>{this._pauseStreamType=button.dataset.scope;haToolsPersistence.save('ha-frigate-privacy-pause-stream-type',this._pauseStreamType);this._updateUI();}));
       root.querySelector('.input-minutes')?.addEventListener('change',(event)=>{this._customMinutes=Math.max(1,Math.min(1440,Number.parseInt(event.target.value,10)||30));this._updateUI();});
       root.querySelector('[data-action="pause-custom"]')?.addEventListener('click',()=>this._pause());root.querySelector('[data-action="resume"]')?.addEventListener('click',()=>this._resume());

diff --git a/docs/screenshots/_harness.html b/docs/screenshots/_harness.html
@@ -43,7 +43,13 @@
     camera_id: b,
     entity_id: 'camera.' + b,
     name: states['camera.' + b].attributes.friendly_name,
-    switches: [],
+    camera_state: 'idle',
+    camera_can_toggle: false,
+    switches: [
+      { entity_id: 'switch.' + b + '_detect', suffix: '_detect', state: states['switch.' + b + '_detect'].state },
+      { entity_id: 'switch.' + b + '_recordings', suffix: '_recordings', state: states['switch.' + b + '_recordings'].state },
+      { entity_id: 'switch.' + b + '_audio_detection', suffix: '_audio_detection', state: b === 'living_room' ? 'off' : 'on' },
+    ],
     available_switches: ['switch.' + b + '_detect', 'switch.' + b + '_recordings'],
     missing_switches: [],
   }));

diff --git a/custom_components/ha_frigate_privacy/control.py b/custom_components/ha_frigate_privacy/control.py
@@ -41,6 +41,9 @@ CURRENT_SUFFIXES = (
 ALL_SUFFIXES = tuple(dict.fromkeys((*LEGACY_SUFFIXES, *CURRENT_SUFFIXES)))
 DISCOVERY_SUFFIXES = ("_detect", "_recordings")
 UNAVAILABLE_STATES = {"unavailable", "unknown"}
+# Home Assistant CameraEntityFeature.ON_OFF. Frigate camera entities can expose
+# an image while reporting supported_features=0; camera.turn_off cannot control them.
+CAMERA_FEATURE_ON_OFF = 1
 MAX_OPERATION_HISTORY = 16
 
 
@@ -412,6 +415,12 @@ def discover_frigate_cameras(hass: HomeAssistant) -> list[dict[str, Any]]:
                     if state is not None
                     else base.replace("_", " ").title()
                 ),
+                "camera_state": state.state if state is not None else None,
+                "camera_can_toggle": bool(
+                    state is not None
+                    and int(state.attributes.get("supported_features") or 0)
+                    & CAMERA_FEATURE_ON_OFF
+                ),
                 "switches": switches,
                 "available_switches": [item["entity_id"] for item in switches],
                 "missing_switches": [
@@ -632,6 +641,8 @@ async def _async_pause_camera_locked(
         and cam_entity
         and (camera_state := hass.states.get(cam_entity)) is not None
         and camera_state.state not in {*UNAVAILABLE_STATES, "off"}
+        and int(camera_state.attributes.get("supported_features") or 0)
+        & CAMERA_FEATURE_ON_OFF
     )
     if stream_type == "all" and cam_entity:
         camera_state = hass.states.get(cam_entity)

diff --git a/tests/test_restart_recovery.py b/tests/test_restart_recovery.py
@@ -63,6 +63,8 @@ class _State:
     def __init__(self, state: str, name: str | None = None) -> None:
         self.state = state
         self.attributes = {"friendly_name": name} if name else {}
+        if state in {"idle", "streaming", "recording"}:
+            self.attributes["supported_features"] = 1
 
 
 class _States:
@@ -267,6 +269,24 @@ def test_pause_persists_intent_before_control_and_reports_verified_phase():
         "switch.front_recordings": "off",
         "camera.front": "off",
     }
+
+
+def test_camera_without_on_off_feature_uses_switches_only():
+    async def scenario():
+        hass = _Hass()
+        hass.states.values["camera.front"].state = "idle"
+        hass.states.values["camera.front"].attributes["supported_features"] = 0
+        storage = _Storage()
+        paused = await control.async_pause_camera(hass, storage, "front")
+        resumed = await control.async_resume_camera(hass, storage, "front")
+        return hass, storage, paused, resumed
+
+    hass, storage, paused, resumed = asyncio.run(scenario())
+    assert paused["phase"] == "paused"
+    assert resumed["phase"] == "active"
+    assert not any(call[0] == "camera" for call in hass.services.calls)
+    assert [hass.states.get(f"switch.front_{suffix}").state for suffix in ("detect", "recordings")] == ["on", "on"]
+    assert storage.paused["front"]["camera_toggled"] is False
 
 
 def test_partial_pause_is_truthful_and_retains_evidence():

diff --git a/custom_components/ha_frigate_privacy/const.py b/custom_components/ha_frigate_privacy/const.py
@@ -3,7 +3,7 @@
 from __future__ import annotations
 
 DOMAIN = "ha_frigate_privacy"
-VERSION = "6.0.2"
+VERSION = "6.0.3"
 CARD_FILENAME = "ha-frigate-privacy-card.js"
 CARD_URL = f"/{DOMAIN}/{CARD_FILENAME}"
 STATIC_URL_BASE = f"/{DOMAIN}"

diff --git a/CHANGELOG.md b/CHANGELOG.md
@@ -2,6 +2,8 @@
 
 ## Unreleased
 
+- Ignore Frigate `camera.*` entities without Home Assistant's ON_OFF capability when pausing. Continue controlling and verifying their supported Frigate switches instead of reporting a false camera readback failure.
+- Show current video entity, recording, and sound-detection states for each discovered camera. Open HA's native camera preview only after an administrator clicks Preview; screenshots remain synthetic.
 - Keep the full card visible while refreshing integration state; bound routine polling so Home Assistant state broadcasts cannot make the card blink or change height.
 - Show the one-line support link only to administrators, with `show_support: false` and a remembered dismiss action.
 - Register one storage-mode Lovelace resource and an administrator-only sidebar panel; preserve an existing HACS resource, refresh the owned resource on upgrade and remove owned UI entries on unload. YAML mode keeps the frontend fallback.

diff --git a/README.md b/README.md
@@ -112,7 +112,11 @@ type: custom:ha-frigate-privacy
 ```
 
 That's it. For an administrator, the card lists discovered Frigate cameras with
-pause/resume controls, backend-confirmed state, and the schedule editor.
+pause/resume controls, backend-confirmed state, and the schedule editor. Each
+camera shows the current HA camera entity, recording switch, and sound-detection
+switch status. **Preview in HA** opens Home Assistant's native camera view only
+when selected; the card never loads a live feed on its own. An unavailable
+sound-detection switch is shown as unavailable rather than assumed to be on.
 
 ## Entities for automations
 
